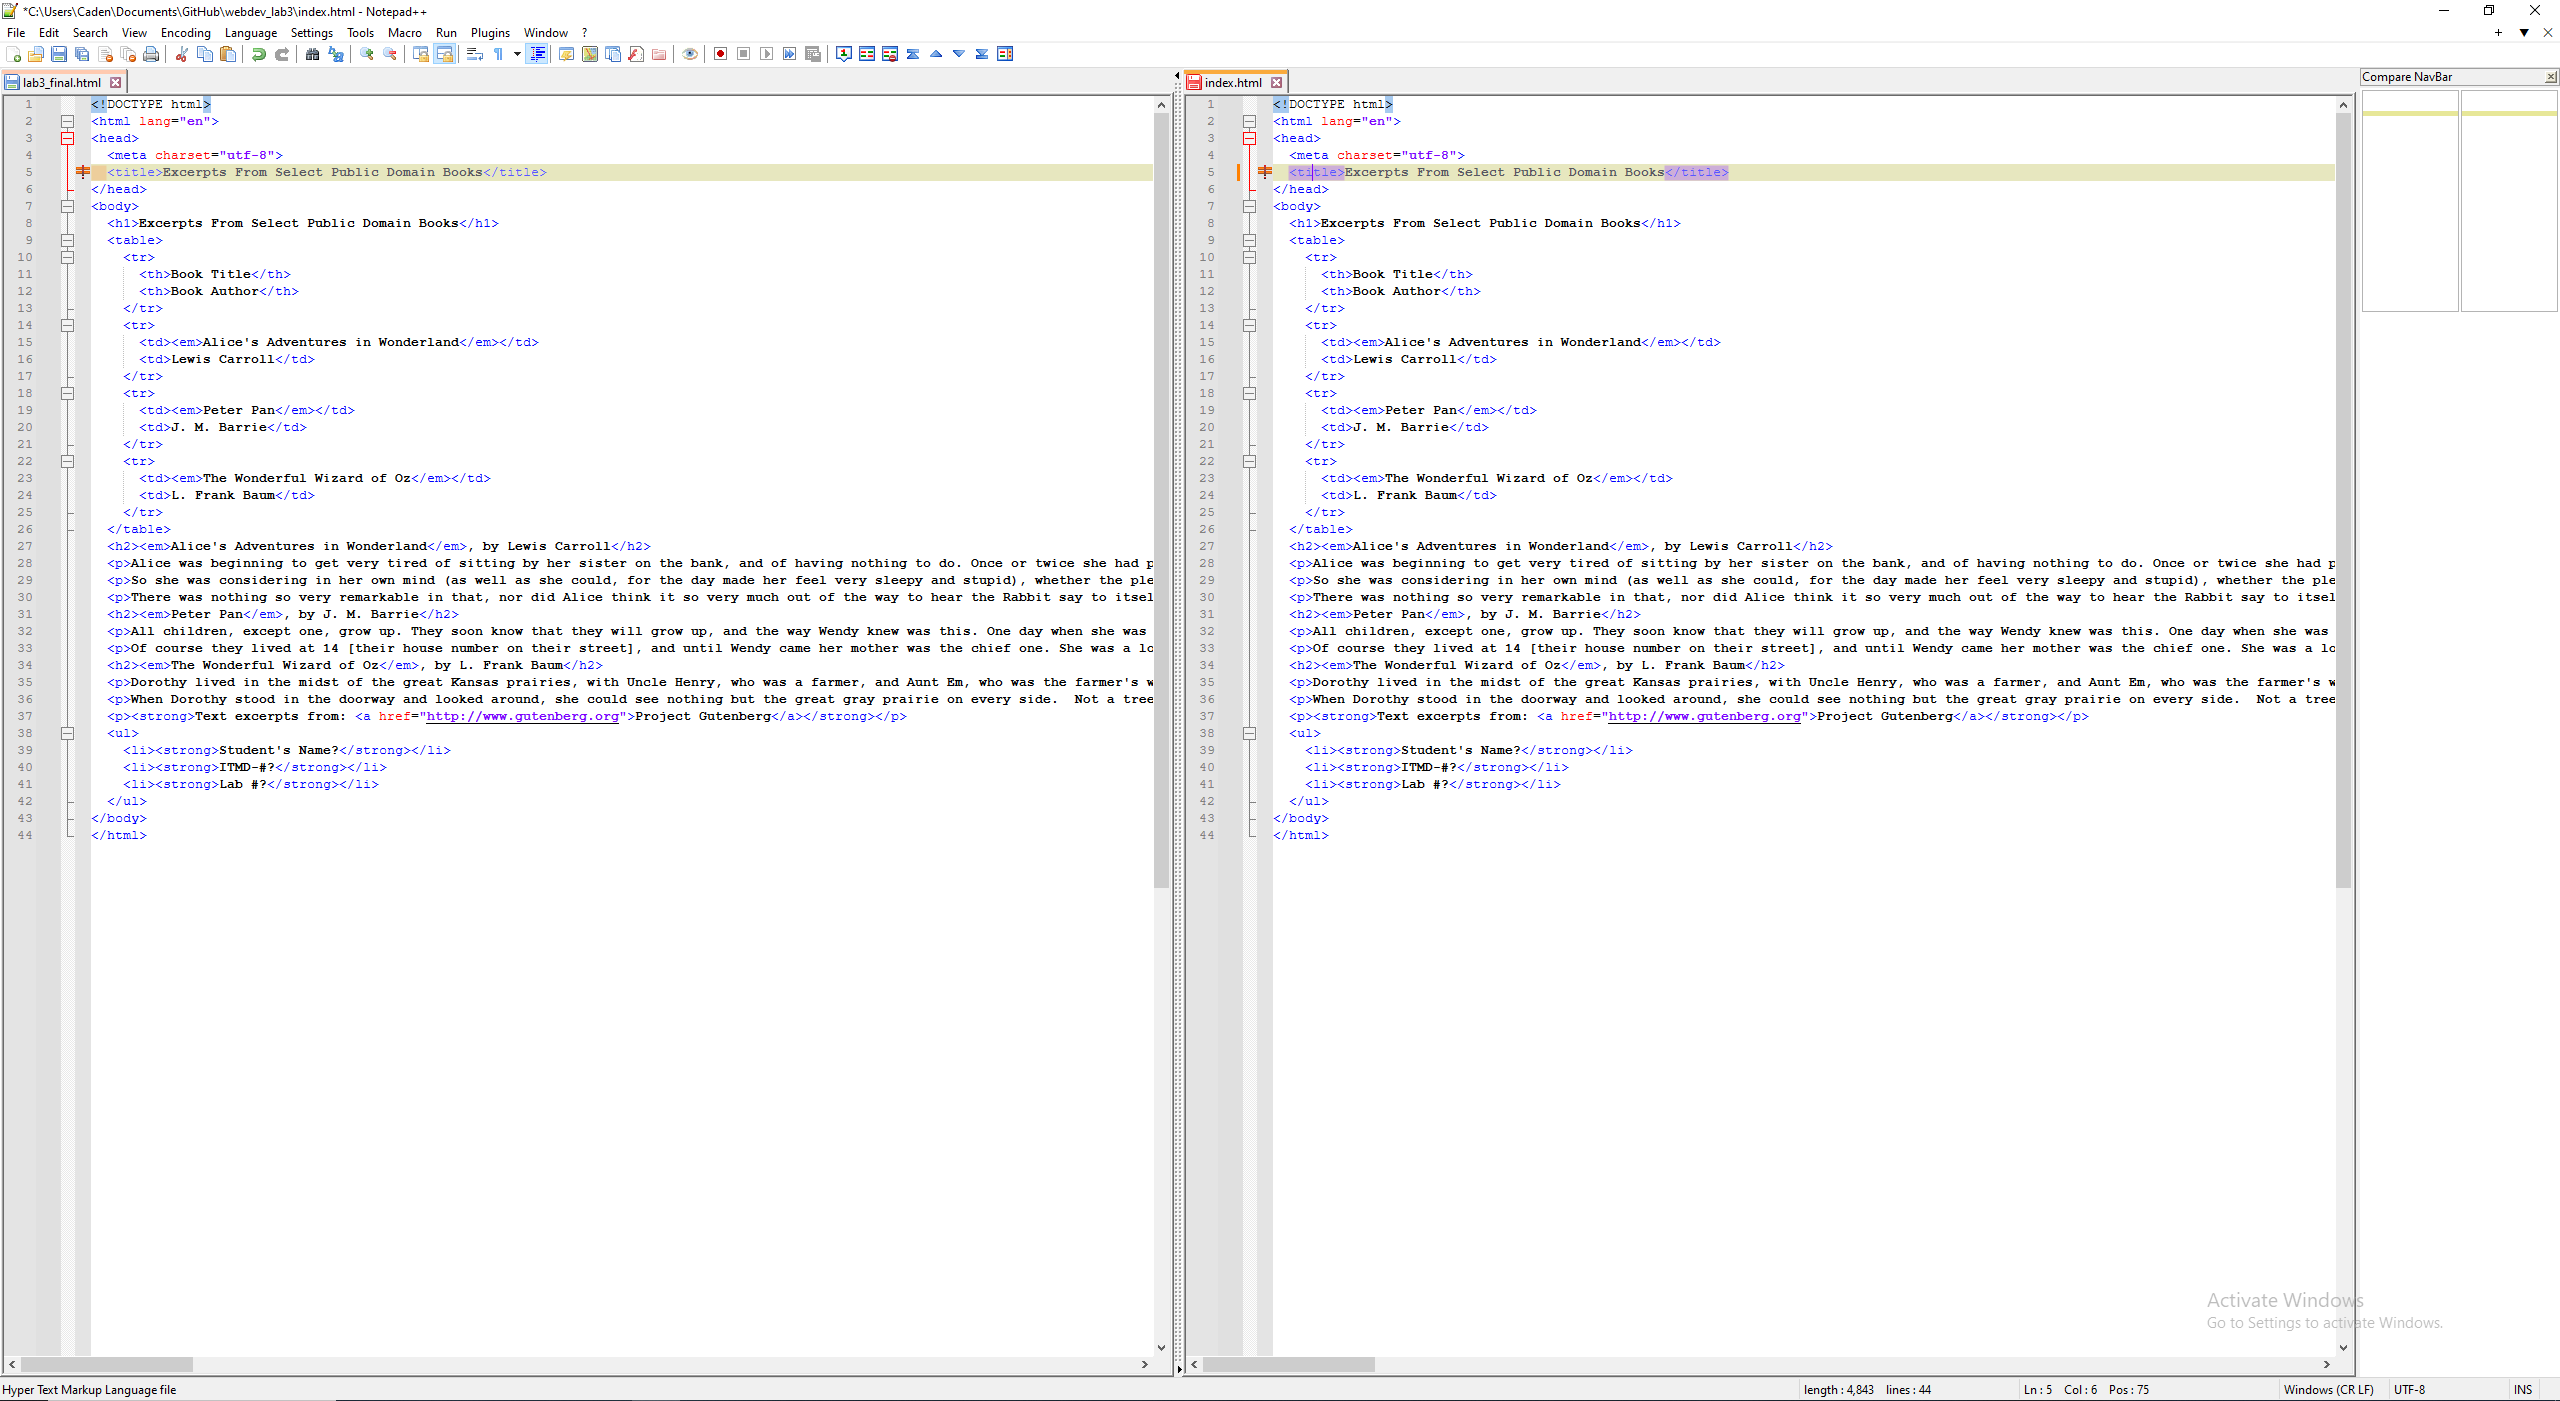
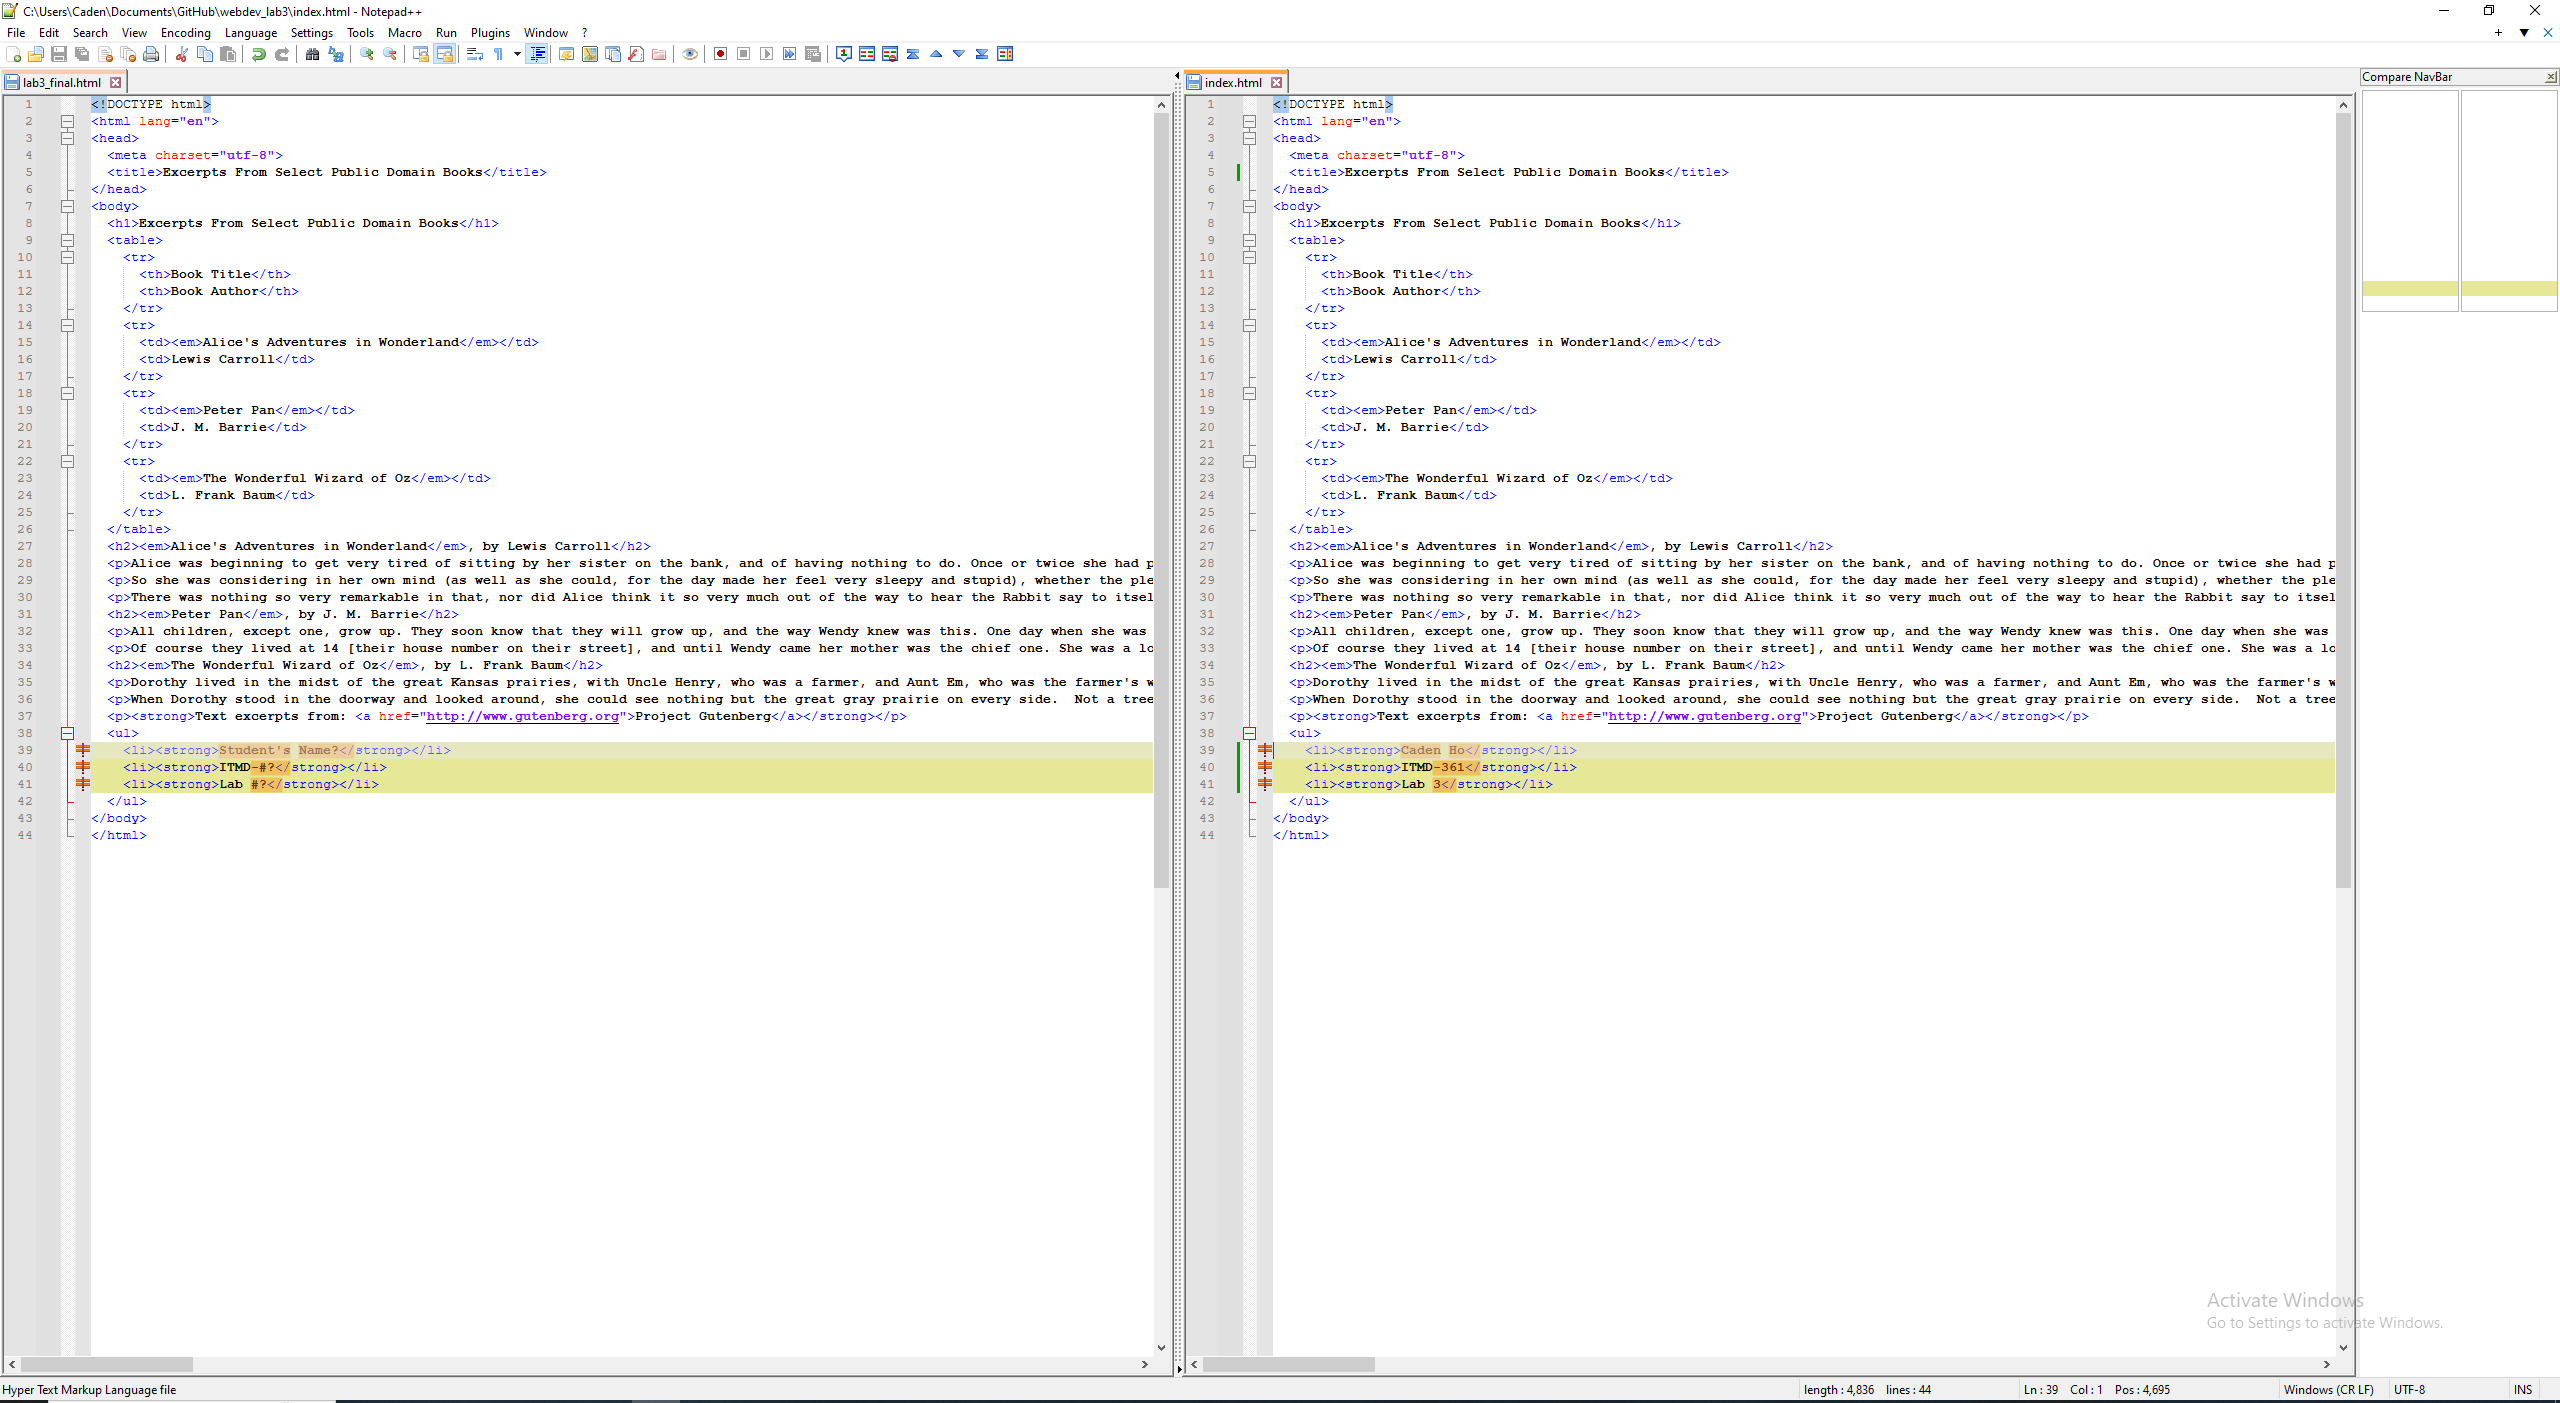
added name, lab#, and ITMD#, replaced compare image

diff --git a/index.html b/index.html
@@ -36,9 +36,9 @@
   <p>When Dorothy stood in the doorway and looked around, she could see nothing but the great gray prairie on every side.  Not a tree nor a house broke the broad sweep of flat country that reached to the edge of the sky in all directions.  The sun had baked the plowed land into a gray mass, with little cracks running through it.  Even the grass was not green, for the sun had burned the tops of the long blades until they were the same gray color to be seen everywhere.  Once the house had been painted, but the sun blistered the paint and the rains washed it away, and now the house was as dull and gray as everything else.</p>
   <p><strong>Text excerpts from: <a href="http://www.gutenberg.org">Project Gutenberg</a></strong></p>
   <ul>
-    <li><strong>Student's Name?</strong></li>
-    <li><strong>ITMD-#?</strong></li>
-    <li><strong>Lab #?</strong></li>
+    <li><strong>Caden Ho</strong></li>
+    <li><strong>ITMD-361</strong></li>
+    <li><strong>Lab 3</strong></li>
   </ul>
 </body>
 </html>
